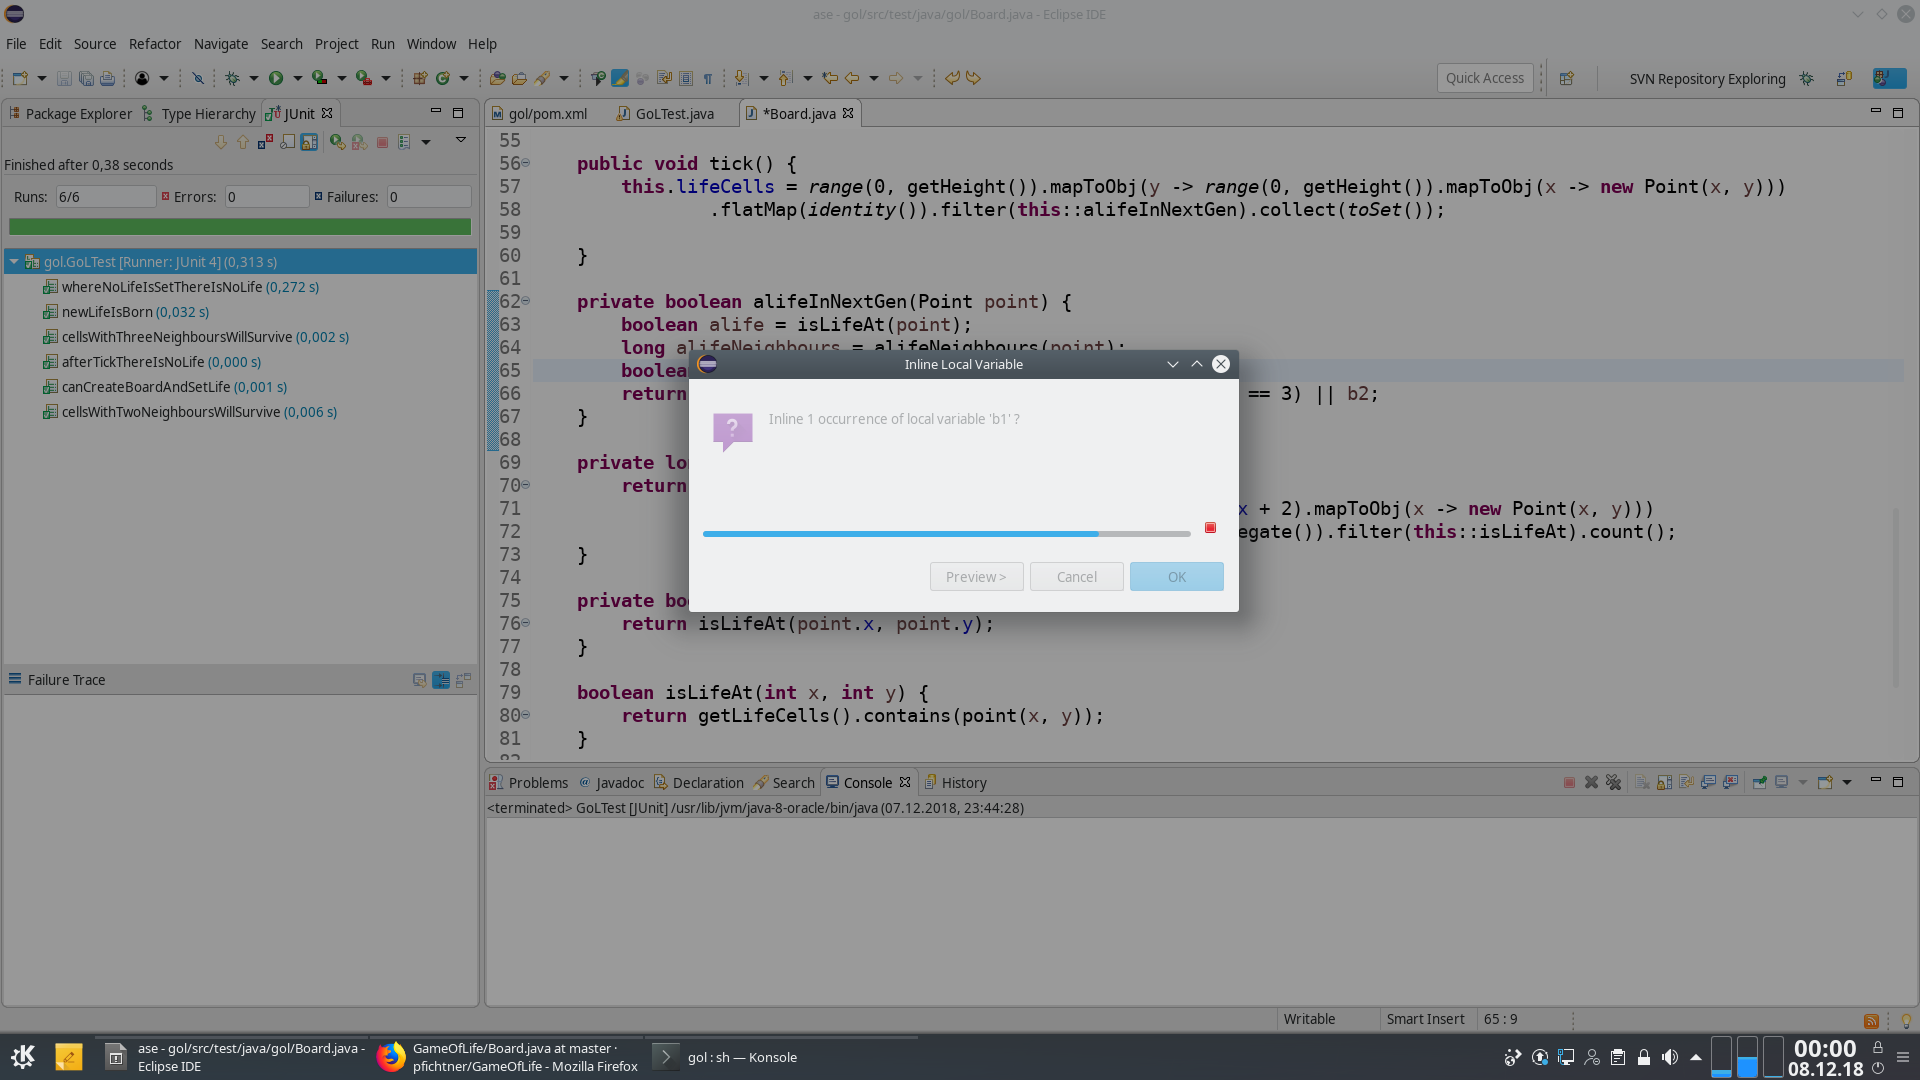
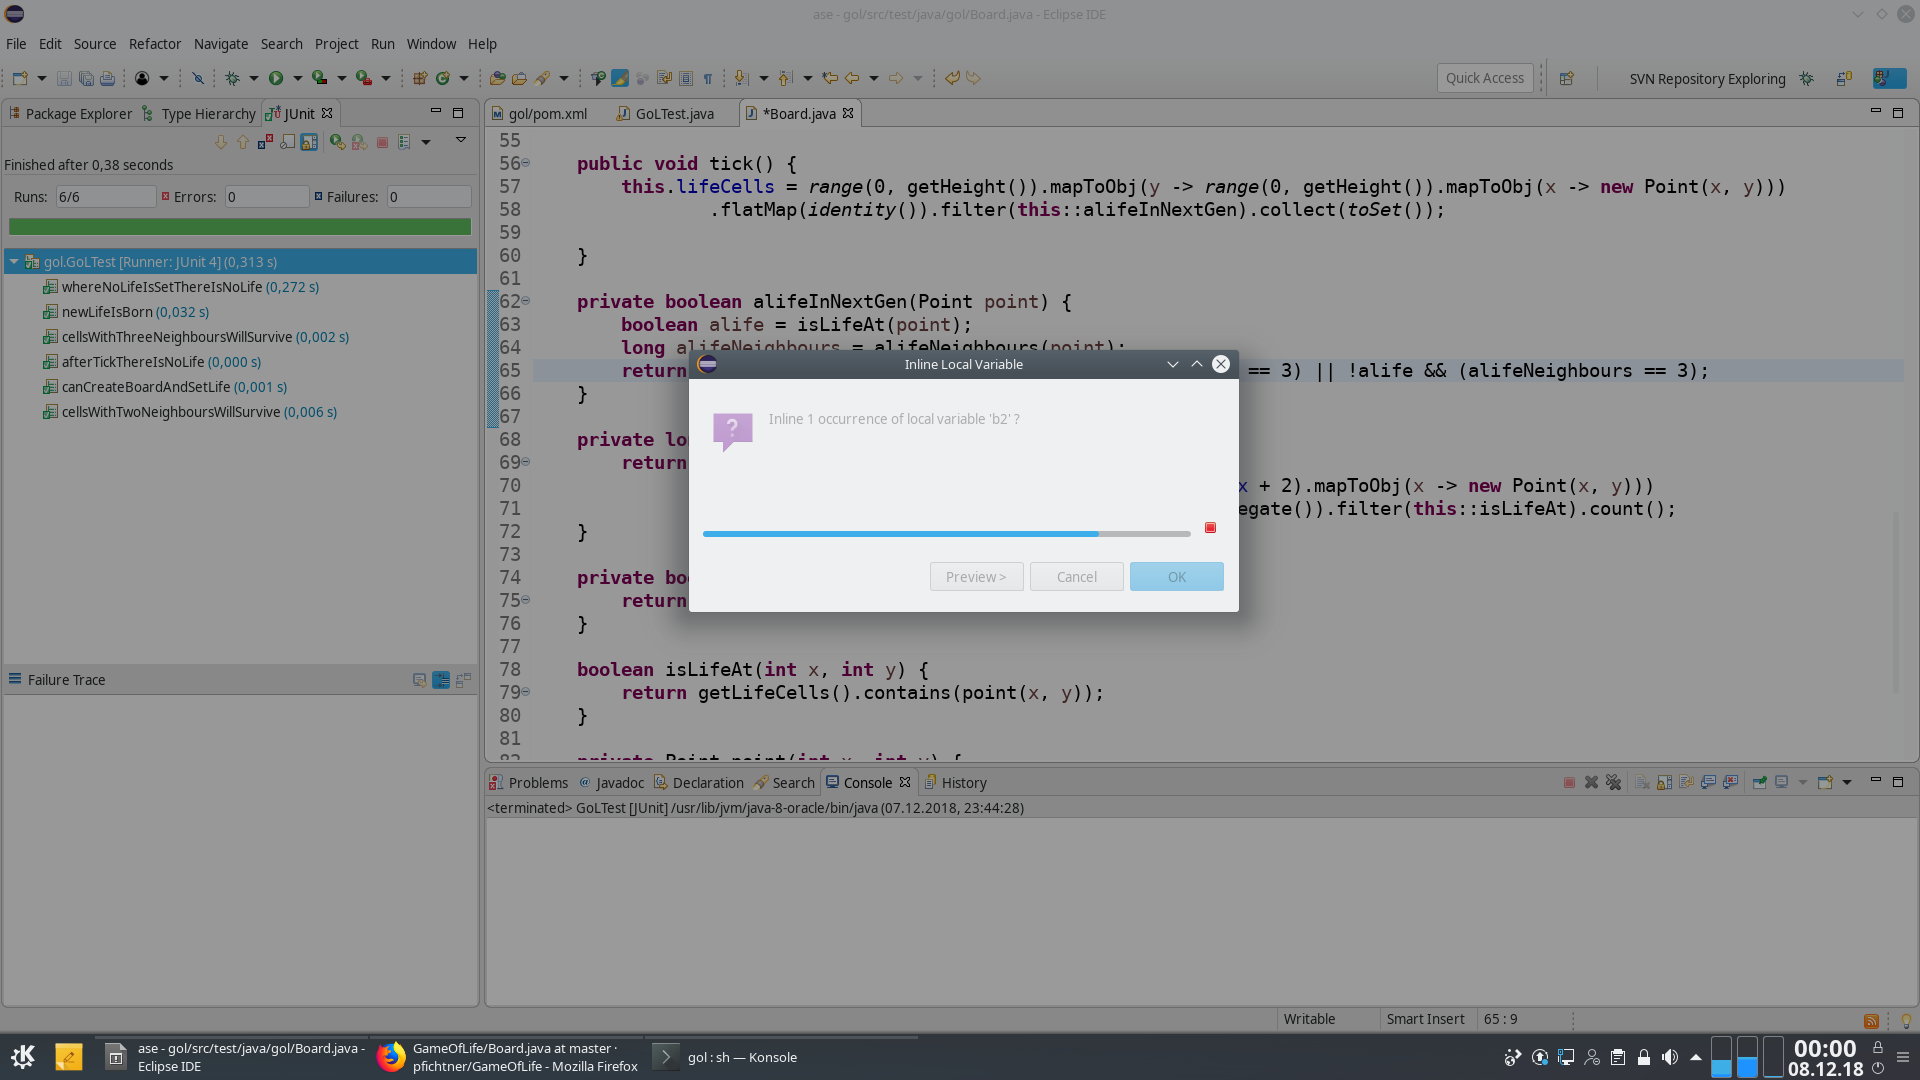
autocommit on change

diff --git a/src/test/java/gol/Board.java b/src/test/java/gol/Board.java
@@ -62,8 +62,7 @@ public class Board {
 	private boolean alifeInNextGen(Point point) {
 		boolean alife = isLifeAt(point);
 		long alifeNeighbours = alifeNeighbours(point);
-		boolean b2 = !alife && (alifeNeighbours == 3);
-		return alife && (alifeNeighbours == 2 || alifeNeighbours == 3) || b2;
+		return alife && (alifeNeighbours == 2 || alifeNeighbours == 3) || !alife && (alifeNeighbours == 3);
 	}
 
 	private long alifeNeighbours(Point thisPoint) {
